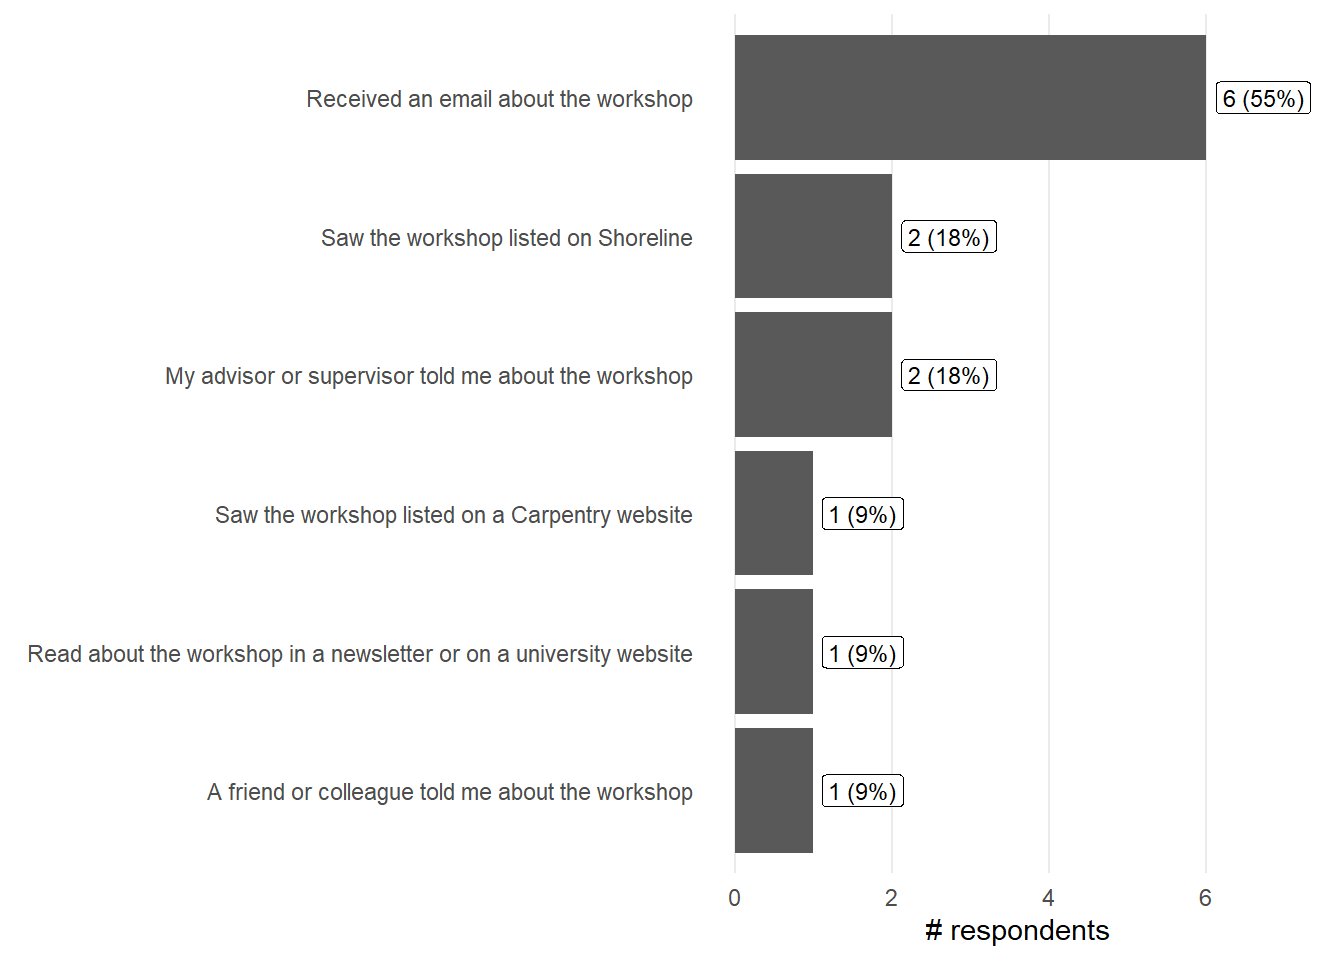
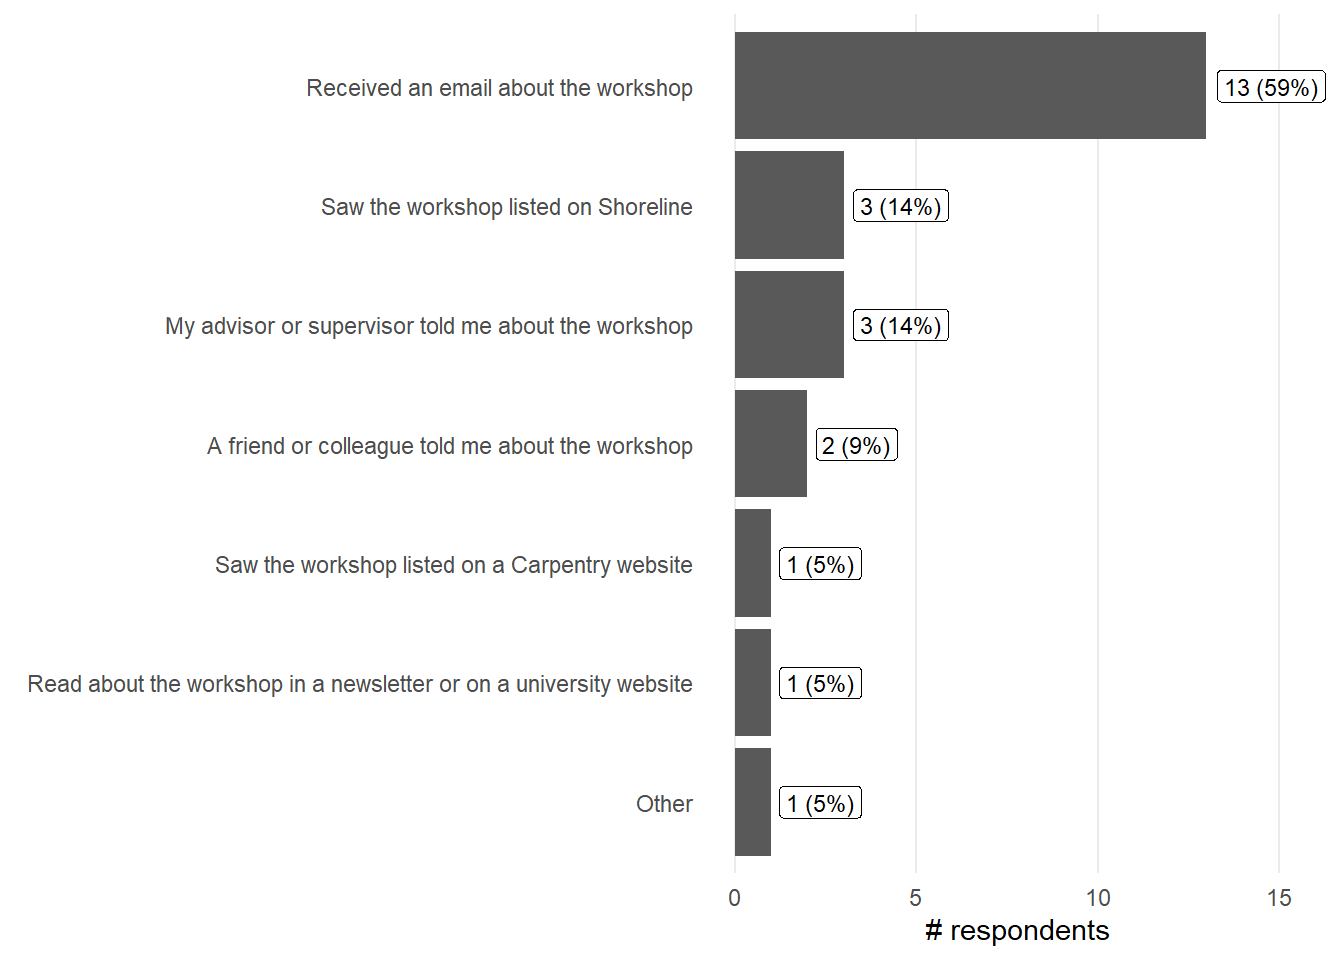
Updated with w25 geospatial same day of workshop

diff --git a/docs/2025-01-23-winter-geospatial.html b/docs/2025-01-23-winter-geospatial.html
@@ -245,7 +245,7 @@ pre > code.sourceCode > span > a:first-child::before { text-decoration: underlin
 <path d="M7 5.5a.5.5 0 0 1 .5-.5h5a.5.5 0 0 1 0 1h-5a.5.5 0 0 1-.5-.5zm-1.496-.854a.5.5 0 0 1 0 .708l-1.5 1.5a.5.5 0 0 1-.708 0l-.5-.5a.5.5 0 1 1 .708-.708l.146.147 1.146-1.147a.5.5 0 0 1 .708 0zM7 9.5a.5.5 0 0 1 .5-.5h5a.5.5 0 0 1 0 1h-5a.5.5 0 0 1-.5-.5zm-1.496-.854a.5.5 0 0 1 0 .708l-1.5 1.5a.5.5 0 0 1-.708 0l-.5-.5a.5.5 0 0 1 .708-.708l.146.147 1.146-1.147a.5.5 0 0 1 .708 0z"></path></svg></div>
 <div class="value-box-area html-fill-item html-fill-container">
 <p class="value-box-title">RSVP'ed Yes - Shoreline</p>
-<p class="value-box-value">57</p>
+<p class="value-box-value">56</p>
 </div>
 </div>
 </div>
@@ -259,7 +259,7 @@ pre > code.sourceCode > span > a:first-child::before { text-decoration: underlin
 <div class="value-box-showcase html-fill-item html-fill-container"><svg xmlns="http://www.w3.org/2000/svg" viewbox="0 0 16 16" class="bi bi-people-fill " style="height:1em;width:1em;fill:currentColor;vertical-align:-0.125em;" aria-hidden="true" role="img"><path d="M7 14s-1 0-1-1 1-4 5-4 5 3 5 4-1 1-1 1H7Zm4-6a3 3 0 1 0 0-6 3 3 0 0 0 0 6Zm-5.784 6A2.238 2.238 0 0 1 5 13c0-1.355.68-2.75 1.936-3.72A6.325 6.325 0 0 0 5 9c-4 0-5 3-5 4s1 1 1 1h4.216ZM4.5 8a2.5 2.5 0 1 0 0-5 2.5 2.5 0 0 0 0 5Z"></path></svg></div>
 <div class="value-box-area html-fill-item html-fill-container">
 <p class="value-box-title">Total survey responses</p>
-<p class="value-box-value">11</p>
+<p class="value-box-value">22</p>
 </div>
 </div>
 </div>
@@ -287,7 +287,7 @@ pre > code.sourceCode > span > a:first-child::before { text-decoration: underlin
 <div class="value-box-showcase html-fill-item html-fill-container"><svg xmlns="http://www.w3.org/2000/svg" viewbox="0 0 16 16" class="bi bi-arrow-left-short " style="height:1em;width:1em;fill:currentColor;vertical-align:-0.125em;" aria-hidden="true" role="img"><path fill-rule="evenodd" d="M12 8a.5.5 0 0 1-.5.5H5.707l2.147 2.146a.5.5 0 0 1-.708.708l-3-3a.5.5 0 0 1 0-.708l3-3a.5.5 0 1 1 .708.708L5.707 7.5H11.5a.5.5 0 0 1 .5.5z"></path></svg></div>
 <div class="value-box-area html-fill-item html-fill-container">
 <p class="value-box-title">Only pre-workshop</p>
-<p class="value-box-value">11</p>
+<p class="value-box-value">22</p>
 </div>
 </div>
 </div>
@@ -496,6 +496,38 @@ pre > code.sourceCode > span > a:first-child::before { text-decoration: underlin
 <tr class="even">
 <td style="text-align: left;">2025-01-23-ucsb-geospatial</td>
 <td style="text-align: left;">I hope to become more confident in working with raster data. I am hoping that I can take what I learn during this workshop and make maps/figures using the information that I gain during the workshop.</td>
+</tr>
+<tr class="odd">
+<td style="text-align: left;">2025-01-23-ucsb-geospatial</td>
+<td style="text-align: left;">more on handling raster spatial data</td>
+</tr>
+<tr class="even">
+<td style="text-align: left;">2025-01-23-ucsb-geospatial</td>
+<td style="text-align: left;">Confident in my skills :)</td>
+</tr>
+<tr class="odd">
+<td style="text-align: left;">2025-01-23-ucsb-geospatial</td>
+<td style="text-align: left;">I hope to learn a project based system on how to do data analytics</td>
+</tr>
+<tr class="even">
+<td style="text-align: left;">2025-01-23-ucsb-geospatial</td>
+<td style="text-align: left;">To make maps in r without hating my data organization skills</td>
+</tr>
+<tr class="odd">
+<td style="text-align: left;">2025-01-23-ucsb-geospatial</td>
+<td style="text-align: left;">I hope to learn at least some basic skills that can help with geospatial data</td>
+</tr>
+<tr class="even">
+<td style="text-align: left;">2025-01-23-ucsb-geospatial</td>
+<td style="text-align: left;">I hope to learn new skills and deepen my understanding of data structures and applications</td>
+</tr>
+<tr class="odd">
+<td style="text-align: left;">2025-01-23-ucsb-geospatial</td>
+<td style="text-align: left;">I hope to better my understanding of R especially as it relates to geographical analysis</td>
+</tr>
+<tr class="even">
+<td style="text-align: left;">2025-01-23-ucsb-geospatial</td>
+<td style="text-align: left;">I hope to be able to use R when doing GIS</td>
 </tr>
 </tbody>
 </table>
